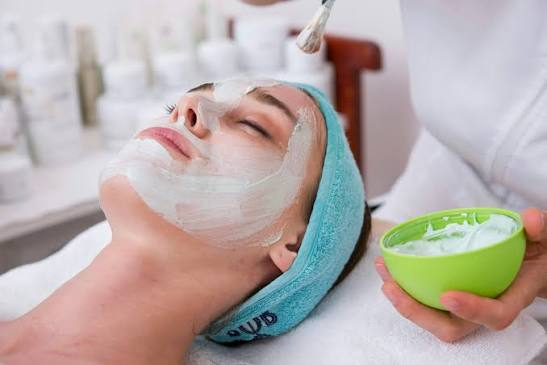
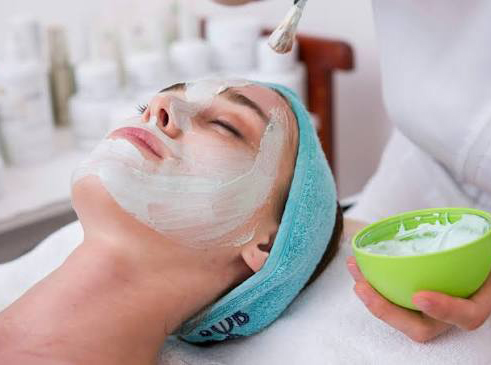
Add files via upload
Cambios realizados el 10/11/2026

diff --git a/index.html b/index.html
@@ -3,19 +3,21 @@
     <head>
         <meta charset="utf-8">
         <meta http-equiv="X-UA-Compatible" content="IE=edge">
-        <title></title>
+        <title>Lunali Cabina</title>
         <meta name="description" content="">
         <meta name="viewport" content="width=device-width, initial-scale=1">
   
         <!-- Bootstrap -->
         <link href="https://cdn.jsdelivr.net/npm/bootstrap@5.3.8/dist/css/bootstrap.min.css" rel="stylesheet" integrity="sha384-sRIl4kxILFvY47J16cr9ZwB07vP4J8+LH7qKQnuqkuIAvNWLzeN8tE5YBujZqJLB" crossorigin="anonymous">
+        <link rel="stylesheet" href="https://cdn.jsdelivr.net/npm/bootstrap-icons@1.13.2/font/bootstrap-icons.min.css">
 
         <!-- Estilos propios -->
-        <link rel="stylesheet" href="/assets/estilos/estilos.css">
+        <link rel="stylesheet" href="./assets/estilos/estilos.css">
     </head>
 
 
     <body>
+        <!-- Barra de menu -->
         <header id="inicio" class="sticky-top">
             <nav class="navbar navbar-expand-lg bg-body-tertiary">
             <div class="container">
@@ -45,7 +47,7 @@
                     </a>
                     <ul class="dropdown-menu">
                         <li><a class="dropdown-item" href="https://www.facebook.com" target="_blank">Facebook</a></li>
-                        <li><a class="dropdown-item" href="https://www.Instagram.com" target="_blank">Instagram</a></li>
+                        <li><a class="dropdown-item" href="https://www.instagram.com/lunali.cabina/" target="_blank">Instagram</a></li>
                     </ul>
                     </li>
                 </ul>
@@ -55,26 +57,28 @@
         </header>
         
        <main>
-        <section id="inicio" class="hero py-5">
+        <!--Seccion Hero -->
+        <section id="#" class="hero py-5">
           <div class="container">
             <div class="row align-items-center">
                 <div class="col-12 col-md-6">
-                    <h1 class="fw-bold">Lunali <spand style="color: rgb(168, 134, 199);">Cabina</span></h1>
-                    <p class="portadilla"> Tratamieintos faciales corporales  </p>
-                    <p class="small">Limpieza facial, hidratantes, relajantes</p>
-                    <p>Lorem ipsum dolor sit amet, consectetur adipiscing elit, sed do eiusmod tempor incididunt ut labore et dolore magna aliqua. Ut enim ad minim veniam, quis nostrud exercitation ullamco laboris nisi ut aliquip ex ea commodo consequat.</p>
-                    <a class="btn btn-lunali" href="#servicios"><i class="bi bi-bag-heart-fill"></i>Servicios </i></a>
+                    <h1 class="fw-bold">Lunali <span style= "color: #a191b2"> Cabina</span></h1>
+                    <p class="portadilla"> Un lugar creado para ti  </p>
+                    <p class="small">Tratamieintos faciales, corporales y terapias holísticas</p>
+                    <p>Somos una cabina cosmética dedicada al cuidado y bienestar de tu belleza. Ofrecemos una amplia variedad de tratamientos faciales, corporales y terapias holísticas, combinando técnicas manuales, tecnología moderna y aparatología especializada para brindarte los mejores resultados.</p>
+                    <a class="btn btn-lunali" href="#servicios"> Servicios <i class="bi bi-bag-heart-fill"></i> </a>
                 </div>
+
                 <div class="col-12 col-md-6">
                 
-                    <img class="perfil shadow rounded-circle mx-auto d-block" src="./assets/img/pp.jpg" alt="foto de perfil">
+                    <img class="perfil shadow rounded-5 mx-auto d-block" src="./assets/img/cabina.jpeg" alt="foto de perfil">
                 </div>
             </div>
           </div>
         </section>
 
-
-        <section id="servicios" class="py-5">
+        <!-- Seccion servicios -->
+        <section id="servicios" class="py-5 bg-light">
             <div class="container">
                 <h2 class="text-center mb-5">Servicios</h2>
                 <div class="row g-4">
@@ -101,24 +105,87 @@
                     <!-- card 3 -->
                     <div class="col-12 col-md-4">
                         <div class="card h-100">
-                            <img src="./assets/img/terapias.jpg" class="card-img-top" alt="Servicio 1">
+                            <img src="./assets/img//terapias.webp" class="card-img-top" alt="Servicio 1">
                             <div class="card-body">
                                 <h3 class="h5 card-title">Terapias Holisticas</h3>
                                 <p class="card-text">Piedras calientes, aromatico, activación energética armonia y equilibrio y más...</p>
                             </div>
                         </div>
                     </div>
-
-
+                </div>    
             </div>
      </section>
 
-        
+     <!-- Seccion Galeria-->
+        <section id="galeria" class="py-5">
+            <div class="container">
+                <h2 class="text-center mb-5">Galería</h2>
+                <div class="row g-4">
+                    <div class="col-6 col-md-4">
+                        <a href="./assets/img/images.jpg" class="glightbox" data-gallery="lumen" data-title="Fotografía de masajes">
+                        <img class="img-fluid rounded-4 shadow" src="./assets/img/images.jpg" alt="fotogrfia de masaje"></a>   
+                    </div>
+                    <div class="col-6 col-md-4">
+                        <a href="./assets/img/terapias.webp" class="glightbox" data-gallery="lumen" data-title="Fotografia de terapias">
+                        <img class="img-fluid rounded-4 shadow" src="./assets/img/terapias.jpg" alt="Fotografia de terapias"></a>
+                    </div>
+                    <div class="col-6 col-md-4">
+                        <a href="./assets/img/faciales.jpg" class="glightbox" data-gallery="lumen" data-title="Fotografía de faciales">
+                    <img class="img-fluid rounded-4 shadow" src="./assets/img/faciales.jpg" alt="fotografia de faciales"></a>
+                    </div>
                 </div>
             </div>
         </section>
-       </main>
-        
+
+<!-- Seccion Contacto-->
+        <section class="py-5 bg-light" id="contacto">
+            <div class="container">
+                <div class="row justify-content-center">
+                    <div class="col-12 col-lg-8">
+                        <h2 class="fw-bold mb-4">Contacto</h2>
+                        <form id="formulario" class="row g-3">
+                            <div class="col-md-6">
+                                <label class="form-label" for="nombre">Nombre</label>
+                                <input class="form-control" id="nombre" name="nombre" type="text" required>
+                            </div>
+                            <div class="col-md-6">
+                                <label class="form-label" for="correo">Correo</label>
+                                <input class="form-control" id="correo" name="correo" type="email" required>
+                            </div>
+                            <div class="col-12">
+                                <label class="form-label" for="mensaje">Mensaje</label>
+                                <textarea class="form-control" id="mensaje" name="mensaje" rows="4" required></textarea>
+                            </div>
+                            <div class="col-12">
+                                <button class="btn btn-lumen" type="submit">Enviar</button>
+                            </div>
+                        </form>
+                        <p class="alert alert-success mt-3 d-none" id="aviso" role="status">Recibimos tu mensaje. Te escribimos pronto.</p>
+                    </div>
+                </div>
+            </div>
+        </section>
+    </main>
+
+    <footer class="bg-dark text-white py-4">
+        <div class="container">
+            <div class="row g-3">
+                <div class="col-md-4">
+                    <strong>Lunali Cabina</strong>
+                    <p class="mb-0 small text-white-50">Tratamieintos faciales, corporales y terapias holísticas</p>
+                </div>
+                <div class="col-md-4">
+                    <p class="mb-1"><i class="bi bi-geo-alt"></i> Mercado de Mexico nuevo, pasillo 1 local 5A piso 2. Pdte Adolfo Lópex Mateos S/N, Mexico Nuevo, 52966, Cd. López Mateos, Mex</p>
+                    <p class="mb-0"><i class="bi bi-clock"></i> Lunes a viernes, 09:00 a 18:00 </p>
+                </div>
+                <div class="col-md-4">
+                    <p class="mb-0"><i class="bi bi-instagram"></i> @lunali.cabina</p>
+                </div>
+            </div>
+            <p class="small text-white-50 mt-4 mb-0">© <span id="anio"></span> Lunali Cabina</p>
+        </div>
+    </footer>
+    
         <script src="https://cdn.jsdelivr.net/npm/bootstrap@5.3.8/dist/js/bootstrap.bundle.min.js" integrity="sha384-FKyoEForCGlyvwx9Hj09JcYn3nv7wiPVlz7YYwJrWVcXK/BmnVDxM+D2scQbITxI" crossorigin="anonymous"></script>
-    </body>
+</body>
 </html>

diff --git a/assets/estilos/estilos.css b/assets/estilos/estilos.css
@@ -6,7 +6,7 @@
 .body {
   font-family: "Outfit", sans-serif;
   font-optical-sizing: auto;
-  font-weight: weight;
+  font-weight: 400;
   font-style: normal;
 }
 
@@ -14,6 +14,7 @@
     font-size:23px ;
     font-weight: 600;
     color: gray;
+    
 }
 
 .perfil{
@@ -22,5 +23,7 @@
 }
 
 .btn-lunali{
-    background-color: rgb(168, 134, 199);
+    background-color: #a191b2;
+    color: white;
+    padding: 8px;
 }
